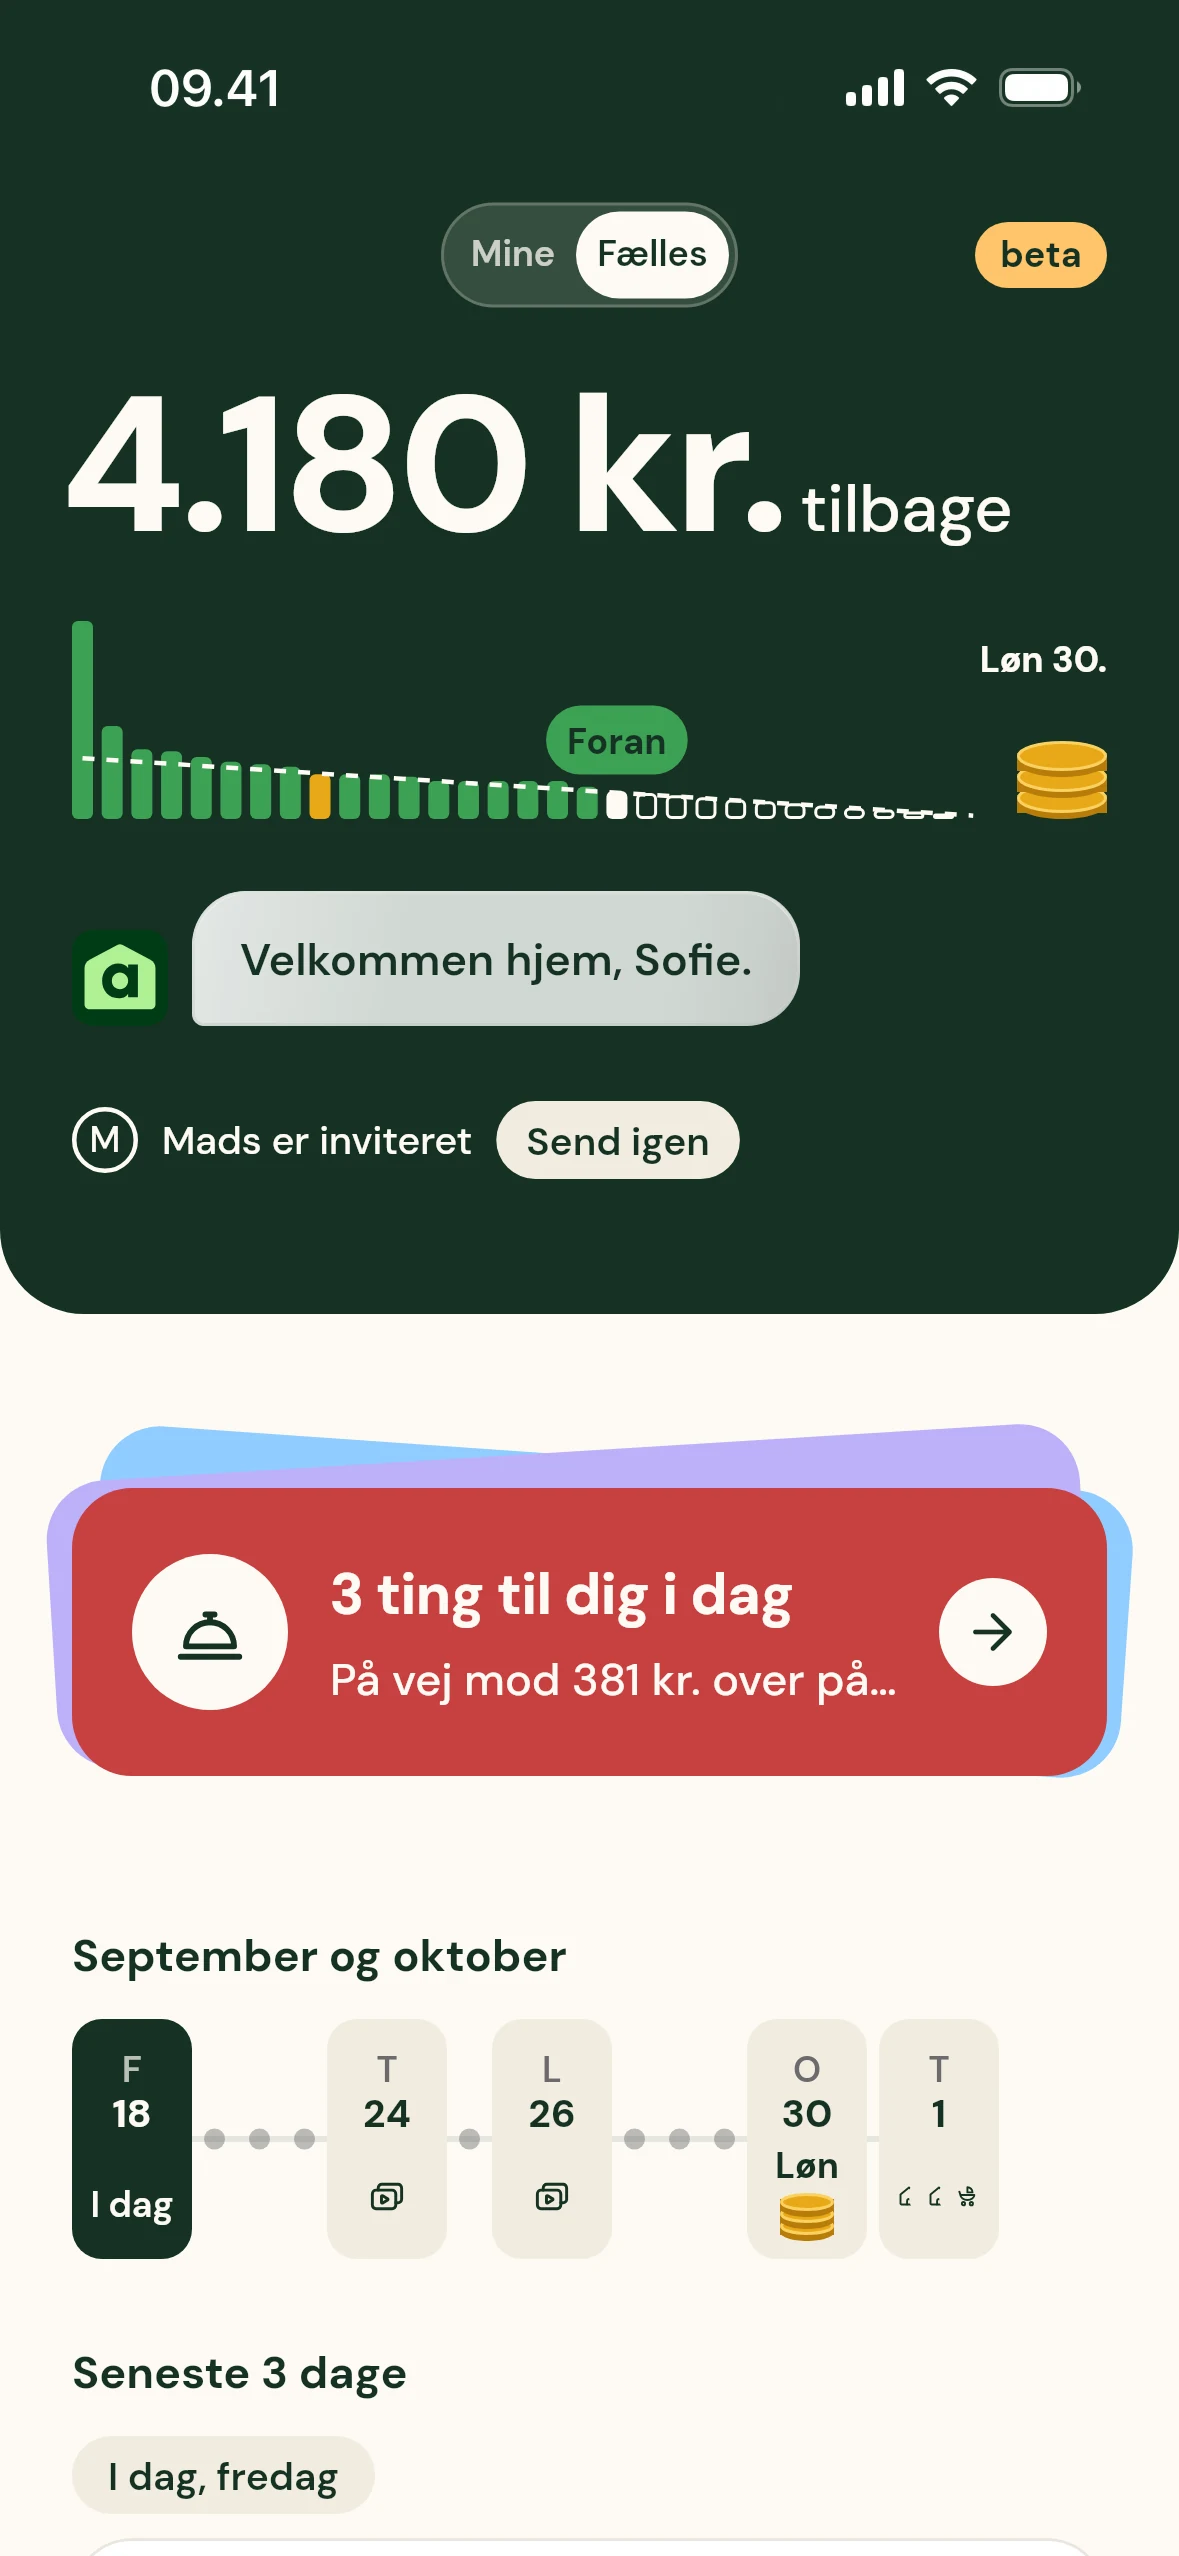
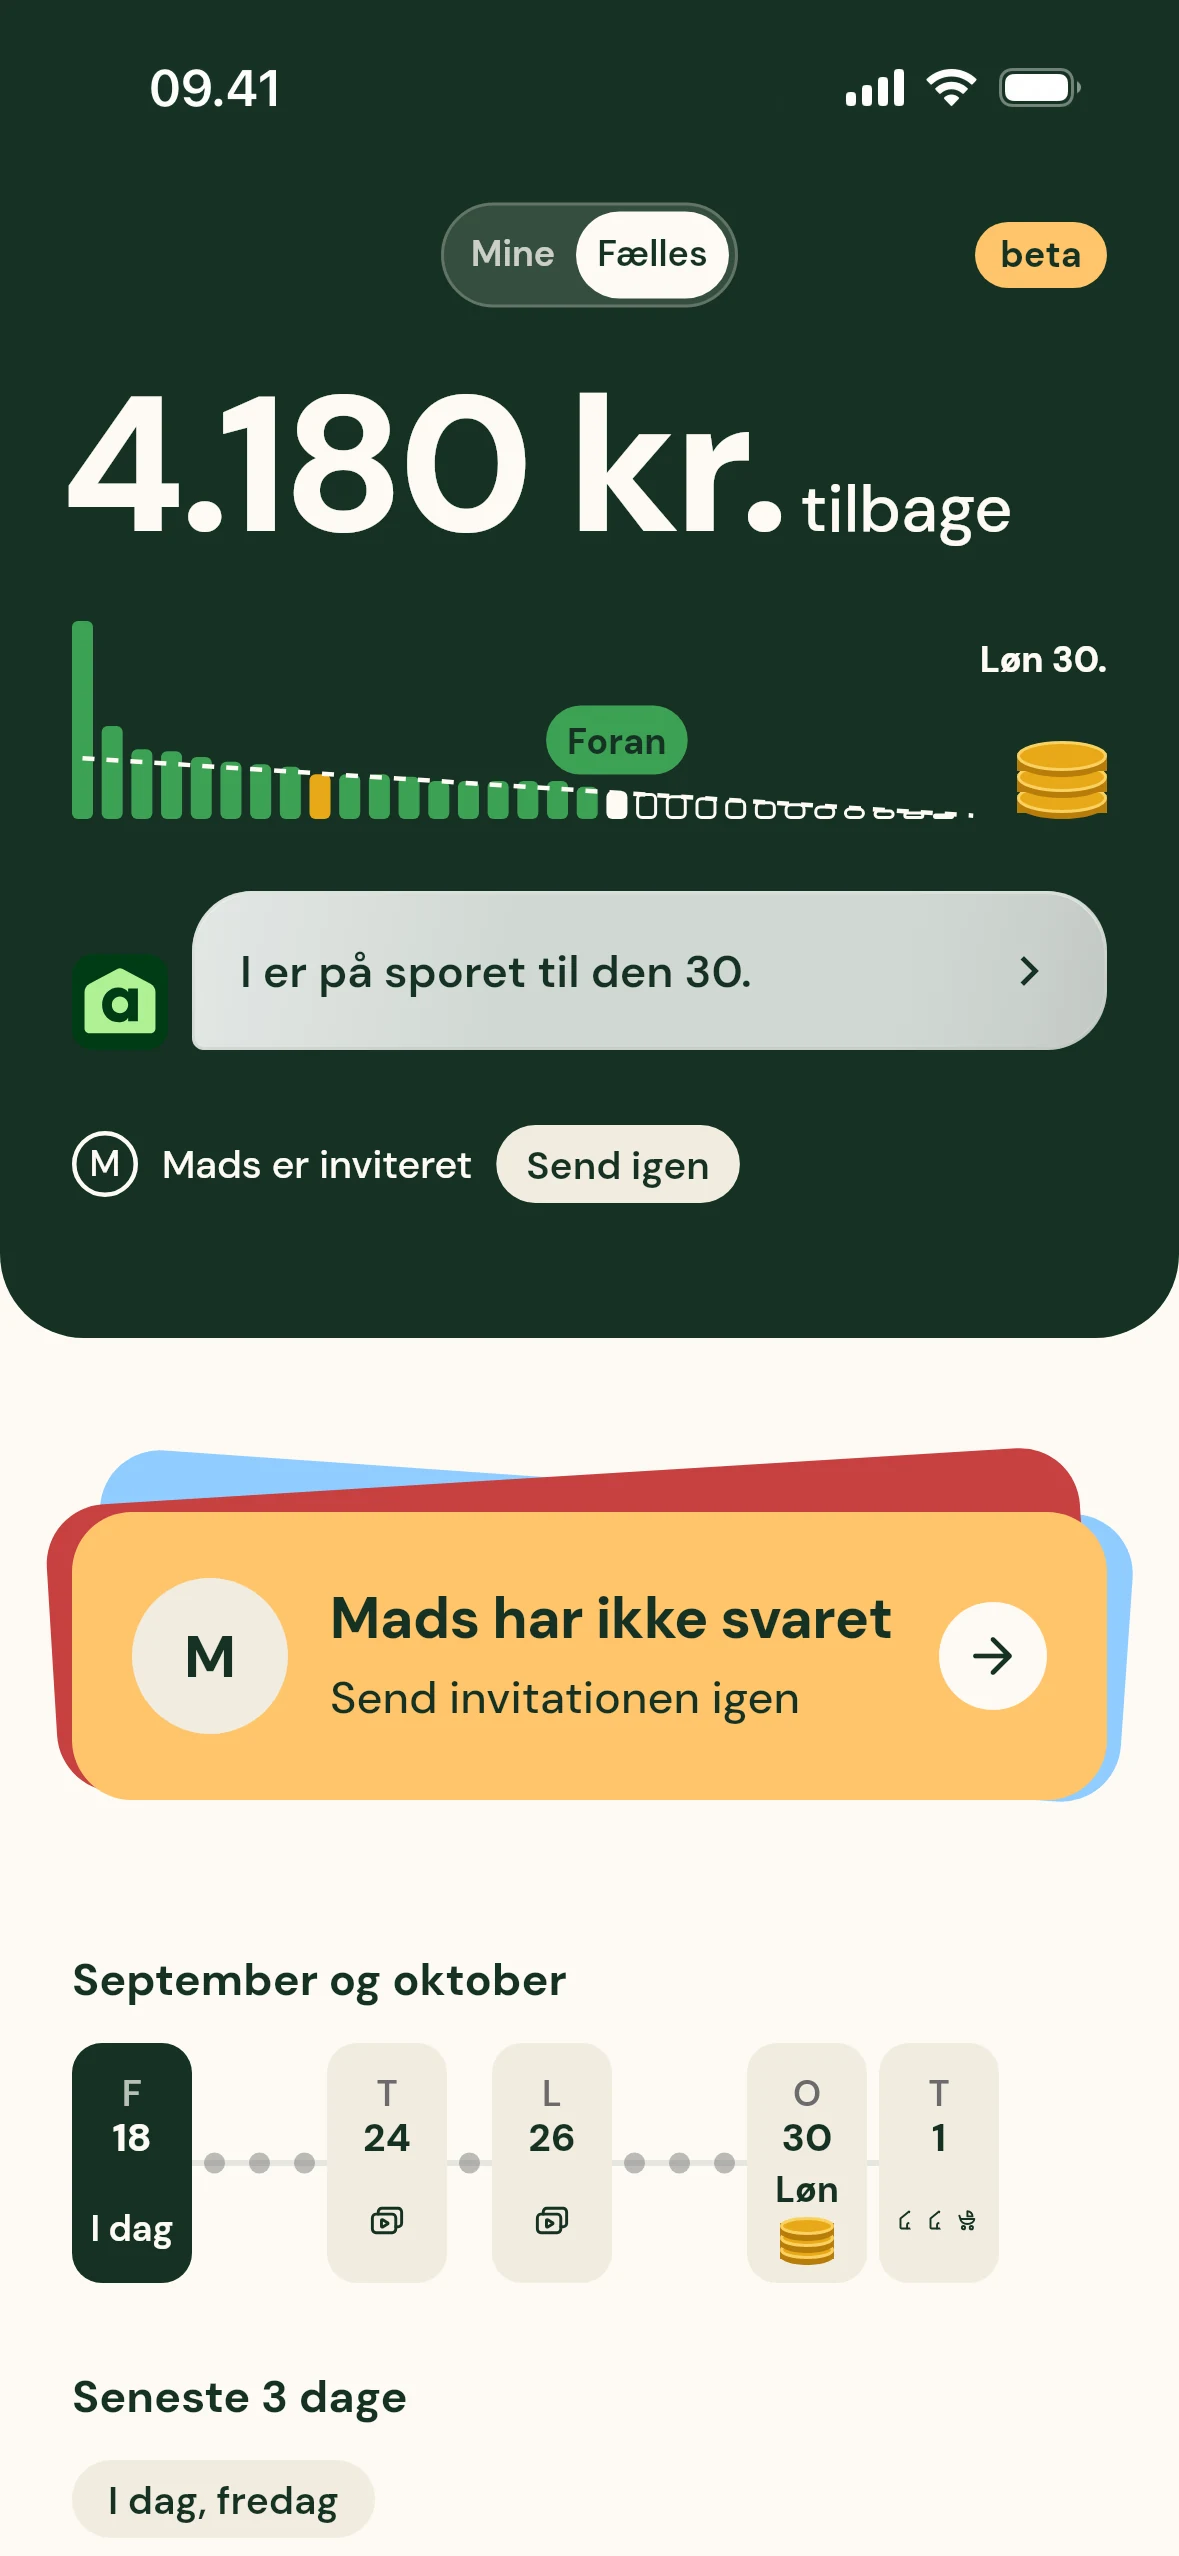
ALT-1420: step photos 2, 3 and 4 again: bank centred, the kitchen, the couple over their shoulders
After Thor's feedback: the bank photo is a classic centred composition,
the Mad photo is clearly in the kitchen with the phone low on the left
so it no longer copies photo 1, and photo 4 shows the couple sitting
shoulder to shoulder, seen over their shoulders, instead of a first
person view that made no sense. Sofie's phone now shows the app's Hjem
with "Mads er inviteret" and the card "Mads har ikke svaret".

diff --git a/components/site/copy.ts b/components/site/copy.ts
@@ -173,8 +173,9 @@ export const PRIVACY = {
 // (warm, soft window light, slightly filmic). The phone is held as people hold one: turned and
 // off centre, so photoFocus says where each photo is cropped. Each was made with an empty green
 // screen and the app's own screenshot is put on it in the phone's perspective, so the app shown
-// is the real one. Step 4 has two phones, first names only: Sofie's shows her Hjem with "Mads er
-// inviteret", Mads's shows "Sofie har inviteret dig", both the app repo's own renders on main
+// is the real one. Step 4 is seen over the couple's shoulders, two phones, first names only:
+// Sofie's shows her Hjem with "Mads er inviteret" and "Mads har ikke svaret", Mads's shows
+// "Sofie har inviteret dig", both the app repo's own renders on main
 // with the clock and signal marks of the other screens added. The briefs and the scripts are in
 // the session's notes. A new round gets new file names: next/image keeps serving a cached
 // picture under an old name.
@@ -182,9 +183,9 @@ export const STEPS = {
   title: 'Fire trin til ét overblik',
   steps: [
     { n: '01', photo: '/site/people/hjemme-1.webp', photoFocus: '100% 50%', tone: 'honey', title: 'Hent appen', body: 'Gratis i App Store og Google Play.', src: '/site/app/appstore.webp', alt: 'Altid Hjem i App Store: gratis, 4,3 ud af 5 og skærmbilleder af appen.' },
-    { n: '02', photo: '/site/people/hjemme-2.webp', photoFocus: '0% 50%', tone: 'sky', title: 'Forbind banken', body: 'Log ind med MitID, og se, hvor pengene går hen. Det er frivilligt.', src: '/site/app/okonomi-top.webp', alt: 'Økonomi i appen: 1.076 kr. brugt siden løn, 877 kr. under det, du plejer.' },
-    { n: '03', photo: '/site/people/hjemme-3.webp', photoFocus: '40% 50%', tone: 'lavender', title: 'Vælg det, I vil bruge', body: 'Madplan, elpris og forsikringstjek. Tag det, der passer jer.', src: '/site/app/mere-sheet.webp', alt: 'Menuen i appen: Energi, Mad, Forsikring og Økonomi.' },
-    { n: '04', photo: '/site/people/hjemme-4.webp', photoFocus: '50% 50%', tone: 'mint', title: 'Inviter din partner', body: 'Så har I et fælles overblik og hver jeres egne tal.', src: '/site/app/partner-venter.webp', alt: 'To telefoner side om side: på Sofies står der Mads er inviteret, på Mads’ står der Sofie har inviteret dig.' },
+    { n: '02', photo: '/site/people/hjemme-bank.webp', photoFocus: '50% 50%', tone: 'sky', title: 'Forbind banken', body: 'Log ind med MitID, og se, hvor pengene går hen. Det er frivilligt.', src: '/site/app/okonomi-top.webp', alt: 'Økonomi i appen: 1.076 kr. brugt siden løn, 877 kr. under det, du plejer.' },
+    { n: '03', photo: '/site/people/hjemme-koekken.webp', photoFocus: '42% 50%', tone: 'lavender', title: 'Vælg det, I vil bruge', body: 'Madplan, elpris og forsikringstjek. Tag det, der passer jer.', src: '/site/app/mere-sheet.webp', alt: 'Menuen i appen: Energi, Mad, Forsikring og Økonomi.' },
+    { n: '04', photo: '/site/people/hjemme-partner.webp', photoFocus: '50% 50%', tone: 'mint', title: 'Inviter din partner', body: 'Så har I et fælles overblik og hver jeres egne tal.', src: '/site/app/partner-venter.webp', alt: 'Et par i sofaen med hver sin telefon: på Sofies står der Mads er inviteret og Mads har ikke svaret, på Mads’ står der Sofie har inviteret dig.' },
   ],
 } as const
 
